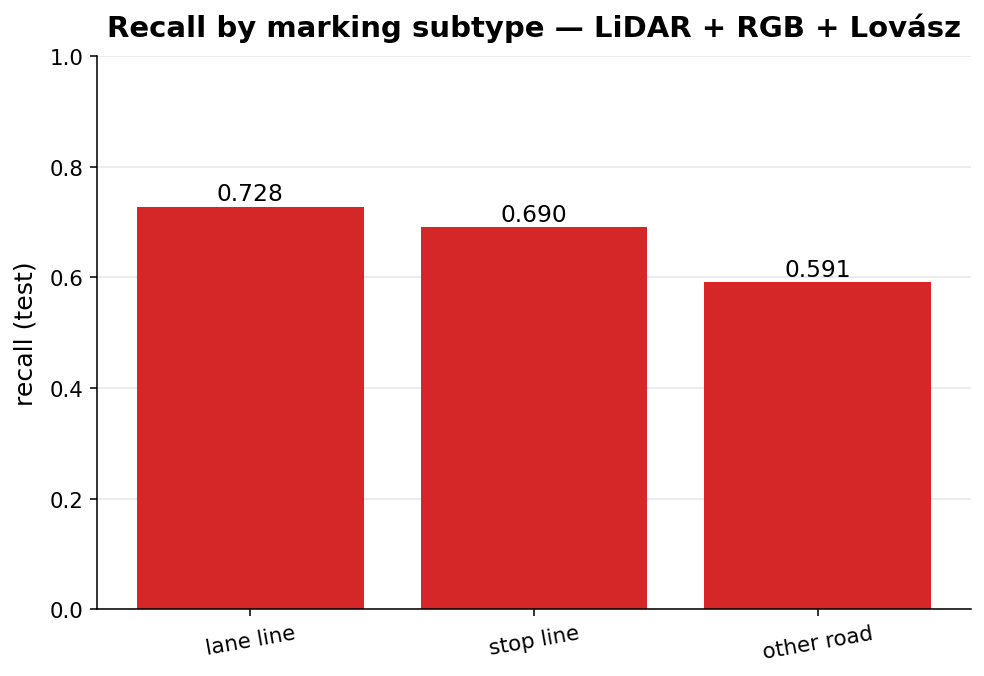
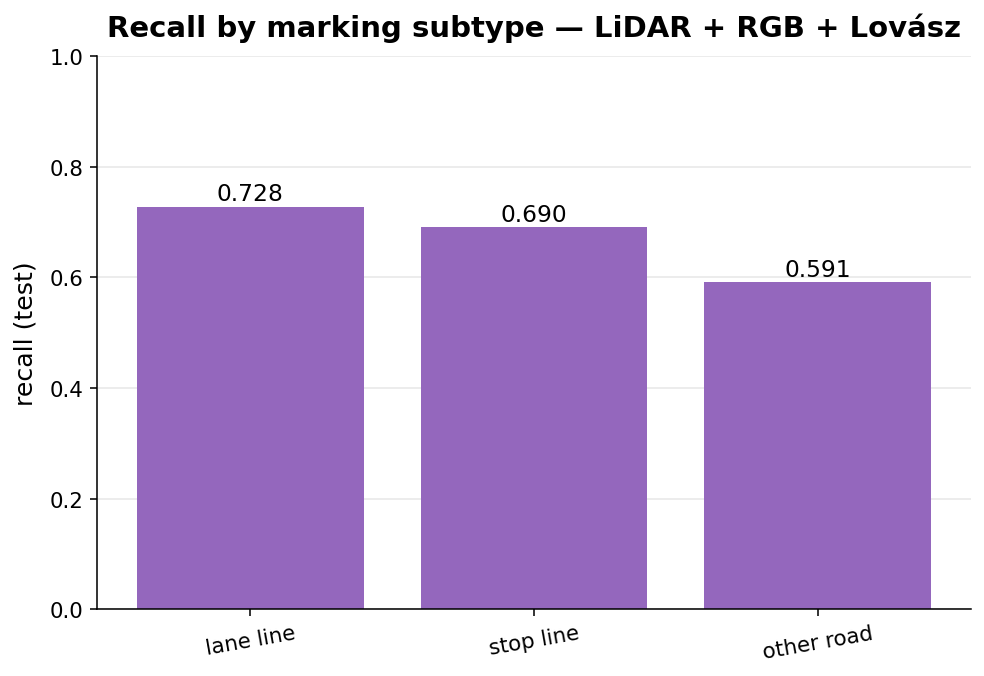
model_results_figures: by_subtype uses recall colour (purple), not red
Consistency rule: each metric has one fixed colour (IoU=red, precision=orange,
recall=purple, F1=gold). by_subtype shows recall, so it is purple now; by_sequence
(marking IoU) correctly stays red.

diff --git a/results/test_suite/model_results_figures.py b/results/test_suite/model_results_figures.py
@@ -185,7 +185,7 @@ def main():
     allr = st[st["stratum"] == "all"]
     fig, ax = plt.subplots(figsize=(7.2, 5))
     labels = allr["raw_name"].str.replace("_marking", "").str.replace("_", " ")
-    ax.bar(range(len(allr)), allr["marking_recall"], color=MARK)
+    ax.bar(range(len(allr)), allr["marking_recall"], color=MET["recall"])  # recall = purple
     for i, v in enumerate(allr["marking_recall"]):
         ax.text(i, v + 0.012, f"{v:.3f}", ha="center")
     ax.set_xticks(range(len(allr))); ax.set_xticklabels(labels, rotation=10)
